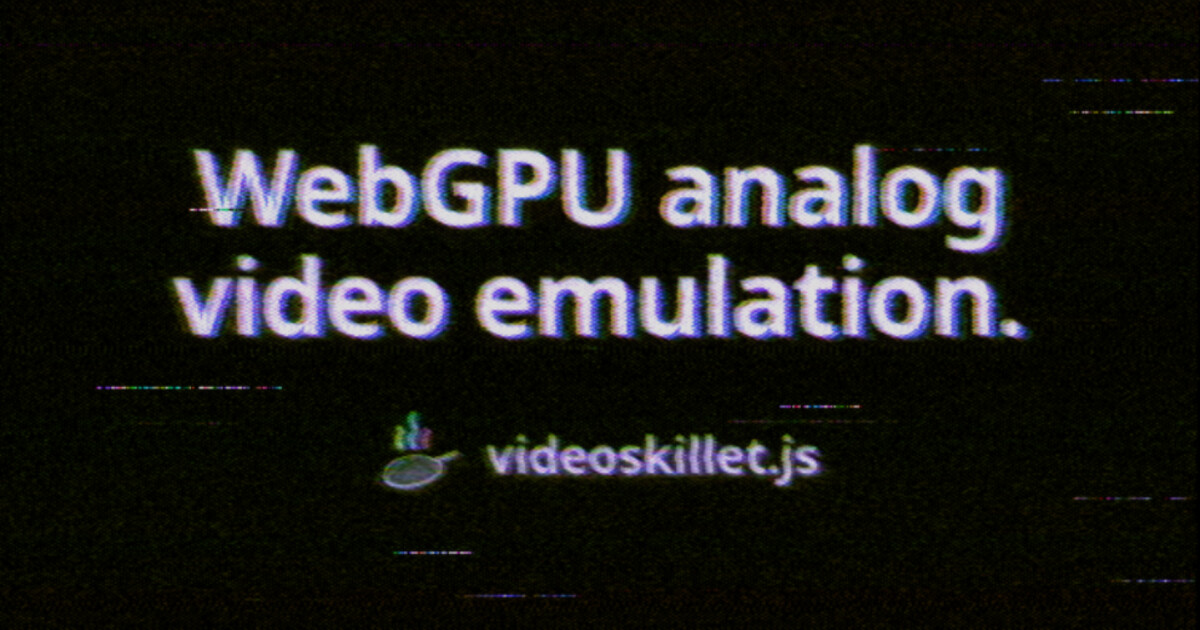
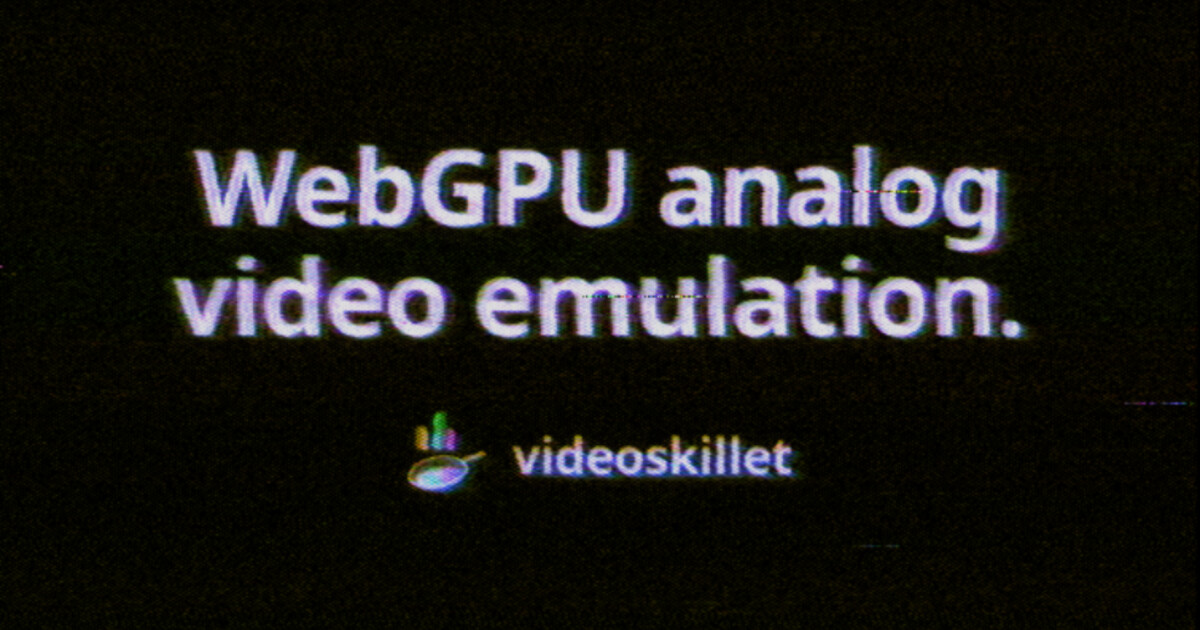
refactor: drop the .js from the name
The app, the package, the site and the docs are videoskillet. Storage keys
and the IndexedDB database rename with it, so a returning browser starts
empty: no strip, clip library, file stash or saved settings carry over.

The hero plates and the link preview are re-rendered with the new wordmark.
The guide screenshots still show the old one; they are 85 commits behind the
app on other counts too and want a retake of their own.

diff --git a/src/app.tsx b/src/app.tsx
@@ -162,12 +162,12 @@ import type { CSSProperties, ReactNode } from 'react'
 // reloads so a collapse sticks — it only ever applies where the masthead is off
 // screen (fullscreen, the popout), which is where somebody clearing the picture
 // off for a projector is likely to be.
-const BAR_HIDDEN_STORE = 'videoskillet.js_overlay_bar_hidden'
+const BAR_HIDDEN_STORE = 'videoskillet_overlay_bar_hidden'
 
 // How wide the sidebar was left. Persisted for the same reason the bench flag
 // is: it is how this session reads the panel, not something it re-decides every
 // time it opens the app.
-const PANEL_W_STORE = 'videoskillet.js_panel_width'
+const PANEL_W_STORE = 'videoskillet_panel_width'
 
 // useSyncExternalStore fallbacks for the window before the async engine exists.
 const subscribeNever = () => () => {}
@@ -343,7 +343,7 @@ export function App() {
   // is the case the viewport gate alone used to refuse — a 1100px laptop with
   // 600px of sidebar has the room, and it is the panel's width that decides,
   // not the screen's.
-  const [benchOn, setBenchOn] = usePersistedFlag('videoskillet.js_panel_bench')
+  const [benchOn, setBenchOn] = usePersistedFlag('videoskillet_panel_bench')
   const roomy = useMediaQuery('(min-width: 1280px)')
   const wideEnough = popout !== null || roomy || panelW >= BENCH_W
   const bench = benchOn && wideEnough
@@ -466,9 +466,7 @@ export function App() {
   // the store is the engine's, so the readout goes down when the engine says a
   // morph is over, however it ended.
   const stopMorph = () => engineRef.current?.stopGlide()
-  const [morphStored, setMorphStored] = usePersistedString(
-    'videoskillet.js_morph',
-  )
+  const [morphStored, setMorphStored] = usePersistedString('videoskillet_morph')
   const morphSeconds = parseMorph(morphStored)
   const mix = useMix({
     controls,
@@ -1420,15 +1418,15 @@ export function App() {
           <button
             className={styles.brand}
             onClick={() => setShowAbout(true)}
-            title={`videoskillet.js ${versionLabel} (${gitSha}) — what is this?`}
-            aria-label="videoskillet.js — what is this?"
+            title={`videoskillet ${versionLabel} (${gitSha}) — what is this?`}
+            aria-label="videoskillet — what is this?"
           >
             <img
               className={styles.brandMark}
               src={publicUrl('favicon.svg')}
               alt=""
             />
-            <span className={styles.wordmark}>videoskillet.js</span>
+            <span className={styles.wordmark}>videoskillet</span>
           </button>
         )}
         {/* Sits in the masthead rather than over the bottom-left of the

diff --git a/src/vote/votes.test.ts b/src/vote/votes.test.ts
@@ -152,16 +152,16 @@ describe('the pending queue', () => {
   })
 
   it('survives a corrupt store rather than throwing at load', () => {
-    localStorage.setItem('videoskillet.js_pending_votes', '{not json')
+    localStorage.setItem('videoskillet_pending_votes', '{not json')
     expect(readPendingVotes()).toEqual([])
-    localStorage.setItem('videoskillet.js_pending_votes', '{"nope":1}')
+    localStorage.setItem('videoskillet_pending_votes', '{"nope":1}')
     expect(readPendingVotes()).toEqual([])
   })
 
   it('drops stale-schema entries and keeps the good ones beside them', () => {
     const good = aVote()
     localStorage.setItem(
-      'videoskillet.js_pending_votes',
+      'videoskillet_pending_votes',
       JSON.stringify([{ old: 'shape' }, good, 42]),
     )
     expect(readPendingVotes()).toEqual([good])
@@ -197,7 +197,7 @@ describe('the pending queue', () => {
   // full queue is what the cap is about anyway.
   it('caps the queue at the newest votes', () => {
     localStorage.setItem(
-      'videoskillet.js_pending_votes',
+      'videoskillet_pending_votes',
       JSON.stringify(Array.from({ length: 1004 }, (_, i) => aVote({ at: i }))),
     )
     queueVote(aVote({ at: 1004 }))

diff --git a/app/index.html b/app/index.html
@@ -26,7 +26,7 @@
       content="black-translucent"
     />
     <meta name="theme-color" content="#000000" />
-    <title>videoskillet.js</title>
+    <title>videoskillet</title>
     <meta
       name="description"
       content="Real-time NTSC / VHS / composite-video glitch simulator in WebGPU — dot crawl, dropouts, head-switch wobble and video feedback emerge from a simulated analog signal, not filters painted on top."
@@ -38,7 +38,7 @@
     <meta property="og:url" content="https://videoskillet.com/app/" />
     <meta
       property="og:title"
-      content="videoskillet.js — WebGPU analog video emulation"
+      content="videoskillet — WebGPU analog video emulation"
     />
     <meta
       property="og:description"
@@ -50,7 +50,7 @@
     <meta name="twitter:card" content="summary_large_image" />
     <meta
       name="twitter:title"
-      content="videoskillet.js — WebGPU analog video emulation"
+      content="videoskillet — WebGPU analog video emulation"
     />
     <meta
       name="twitter:description"

diff --git a/src/ui/fileStash.ts b/src/ui/fileStash.ts
@@ -82,7 +82,7 @@ interface Meta {
 
 const NONE: Meta = { name: '', type: '', kind: 'copy', id: '' }
 
-const metaKey = (slot: StashSlot) => `videoskillet.js.stash.${slot}`
+const metaKey = (slot: StashSlot) => `videoskillet.stash.${slot}`
 const copyName = (slot: StashSlot) => `source-${slot}`
 
 // Whether a reload puts each deck back on what it was holding, which is a
@@ -100,7 +100,7 @@ const copyName = (slot: StashSlot) => `source-${slot}`
 // both go through `storedFlag`: with two spellings of "absent means yes" the two
 // files could drift into an app that reopens clips under a switch reading "start
 // empty", and nothing would fail.
-export const REOPEN_KEY = 'videoskillet.js.reopen'
+export const REOPEN_KEY = 'videoskillet.reopen'
 
 export const reopensOnLoad = (): boolean => storedFlag(REOPEN_KEY, true)
 

diff --git a/vote/index.html b/vote/index.html
@@ -7,10 +7,10 @@
       content="width=device-width, initial-scale=1.0, viewport-fit=cover"
     />
     <link rel="icon" type="image/svg+xml" href="/favicon.svg" />
-    <title>videoskillet.js — which look is cooler?</title>
+    <title>videoskillet — which look is cooler?</title>
     <meta
       name="description"
-      content="Judge pairs of randomly rolled videoskillet.js looks, to build a training set for finding the good ones automatically."
+      content="Judge pairs of randomly rolled videoskillet looks, to build a training set for finding the good ones automatically."
     />
     <!-- Deliberately not indexed and not unfurled: this is a labelling tool for
          building a preference dataset, not a page anyone should land on from a

diff --git a/stream/index.html b/stream/index.html
@@ -7,10 +7,10 @@
       content="width=device-width, initial-scale=1.0, viewport-fit=cover"
     />
     <link rel="icon" type="image/svg+xml" href="/favicon.svg" />
-    <title>videoskillet.js — cool or not?</title>
+    <title>videoskillet — cool or not?</title>
     <meta
       name="description"
-      content="Rate randomly rolled videoskillet.js looks one at a time, to build a training set for finding the good ones automatically."
+      content="Rate randomly rolled videoskillet looks one at a time, to build a training set for finding the good ones automatically."
     />
     <!-- Deliberately not indexed and not unfurled: this is a labelling tool for
          building a preference dataset, not a page anyone should land on from a

diff --git a/src/ui/usePopout.ts b/src/ui/usePopout.ts
@@ -23,11 +23,11 @@ export function usePopout() {
     } else {
       const w = window.open(
         '',
-        'videoskillet.js_controls',
+        'videoskillet_controls',
         `width=${wide ? WIDE : NARROW},height=900`,
       )
       if (w !== null) {
-        w.document.title = 'videoskillet.js — controls'
+        w.document.title = 'videoskillet — controls'
         w.document.body.style.margin = '0'
         // Mirror the app's styles (Vite dev injects <style>; prod links CSS).
         for (const el of document.querySelectorAll('style')) {

diff --git a/src/ui/cloud.ts b/src/ui/cloud.ts
@@ -56,7 +56,7 @@ const COLLECTION = 'users'
 // store, and this is only the hint that tells a fresh page load whether it is
 // worth fetching the SDK to go and look. Wrong in the harmless direction either
 // way: stale-true costs one wasted fetch, stale-false costs one click.
-export const SIGNED_IN_HINT = 'videoskillet.js_signed_in'
+export const SIGNED_IN_HINT = 'videoskillet_signed_in'
 
 // The reCAPTCHA Enterprise key App Check attests with, from the Firebase console's
 // App Check page. Public in the same way the config above is: it names the site

diff --git a/src/vote/votes.ts b/src/vote/votes.ts
@@ -241,7 +241,7 @@ export function readVote(raw: unknown): VoteRecord | undefined {
 // for, and a labeller who votes fifty pairs and then signs in should keep all
 // fifty. Nothing here is a substitute for the server: it is a buffer, and every
 // flush empties it.
-const PENDING_STORE = 'videoskillet.js_pending_votes'
+const PENDING_STORE = 'videoskillet_pending_votes'
 
 // Past this the queue is someone who has never signed in and never will, and the
 // oldest records go rather than the newest — a 5MB localStorage quota is shared

diff --git a/src/ui/useEngine.ts b/src/ui/useEngine.ts
@@ -189,7 +189,7 @@ const readPlayhead = (el: HTMLVideoElement | null): Playhead =>
 const samePlayhead = (a: Playhead, b: Playhead): boolean =>
   a.time === b.time && a.duration === b.duration && a.paused === b.paused
 
-const SOUND_OUT_KEY = 'videoskillet.js_sound_out'
+const SOUND_OUT_KEY = 'videoskillet_sound_out'
 
 // Tries per rebuild, and the wait between them. requestAdapter can fail outright
 // in the moments after a driver reset — the GPU stack is still coming back — so

diff --git a/site/styles/guide.css b/site/styles/guide.css
@@ -603,7 +603,7 @@ hr {
   }
   /* The identity and the call to action keep their width and the page links
      give theirs up, so the row that scrolls is the one built to scroll. A brand
-     free to shrink is narrower than its own text and paints "videoskillet.js
+     free to shrink is narrower than its own text and paints "videoskillet
      guide" straight over the first nav link; a call to action free to shrink
      put "Install" underneath "Open the app". */
   .brand,

diff --git a/src/ui/clipLibrary.ts b/src/ui/clipLibrary.ts
@@ -660,7 +660,7 @@ export function readLibrary(raw: unknown): Library {
 
 // ── the store ────────────────────────────────────────────────────────────────
 
-const KEY = 'videoskillet.js.clips'
+const KEY = 'videoskillet.clips'
 const clipRecord = (id: string) => `clip:${id}`
 const folderRecord = (id: string) => `folder:${id}`
 
